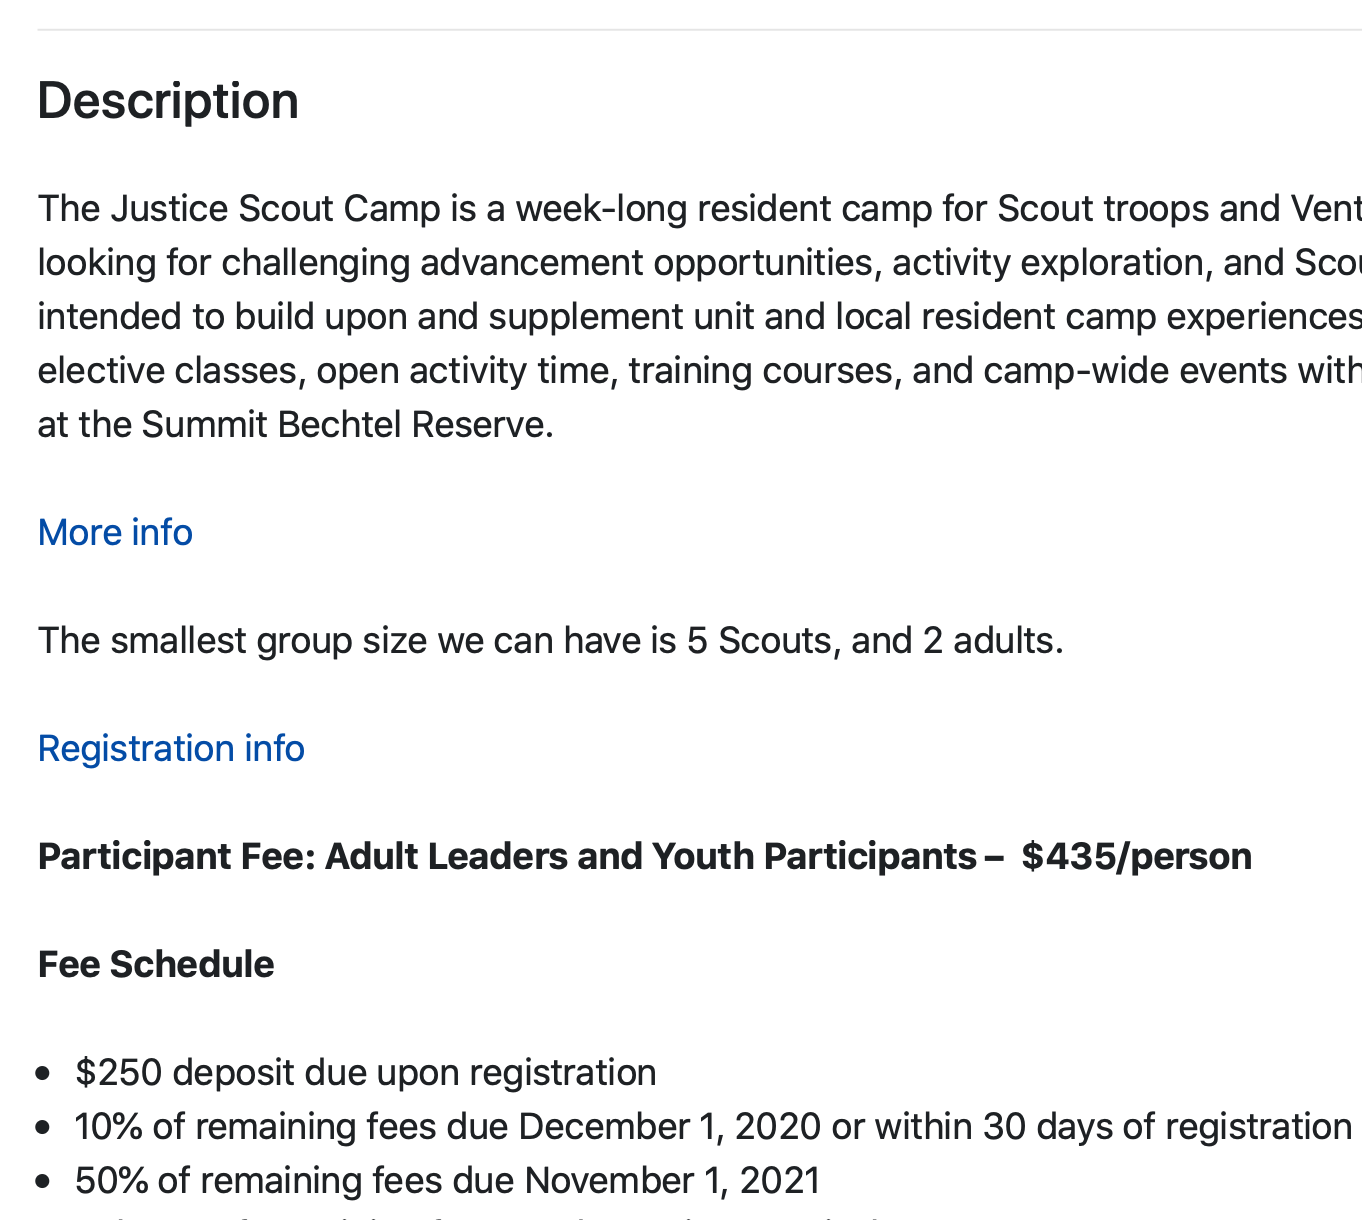
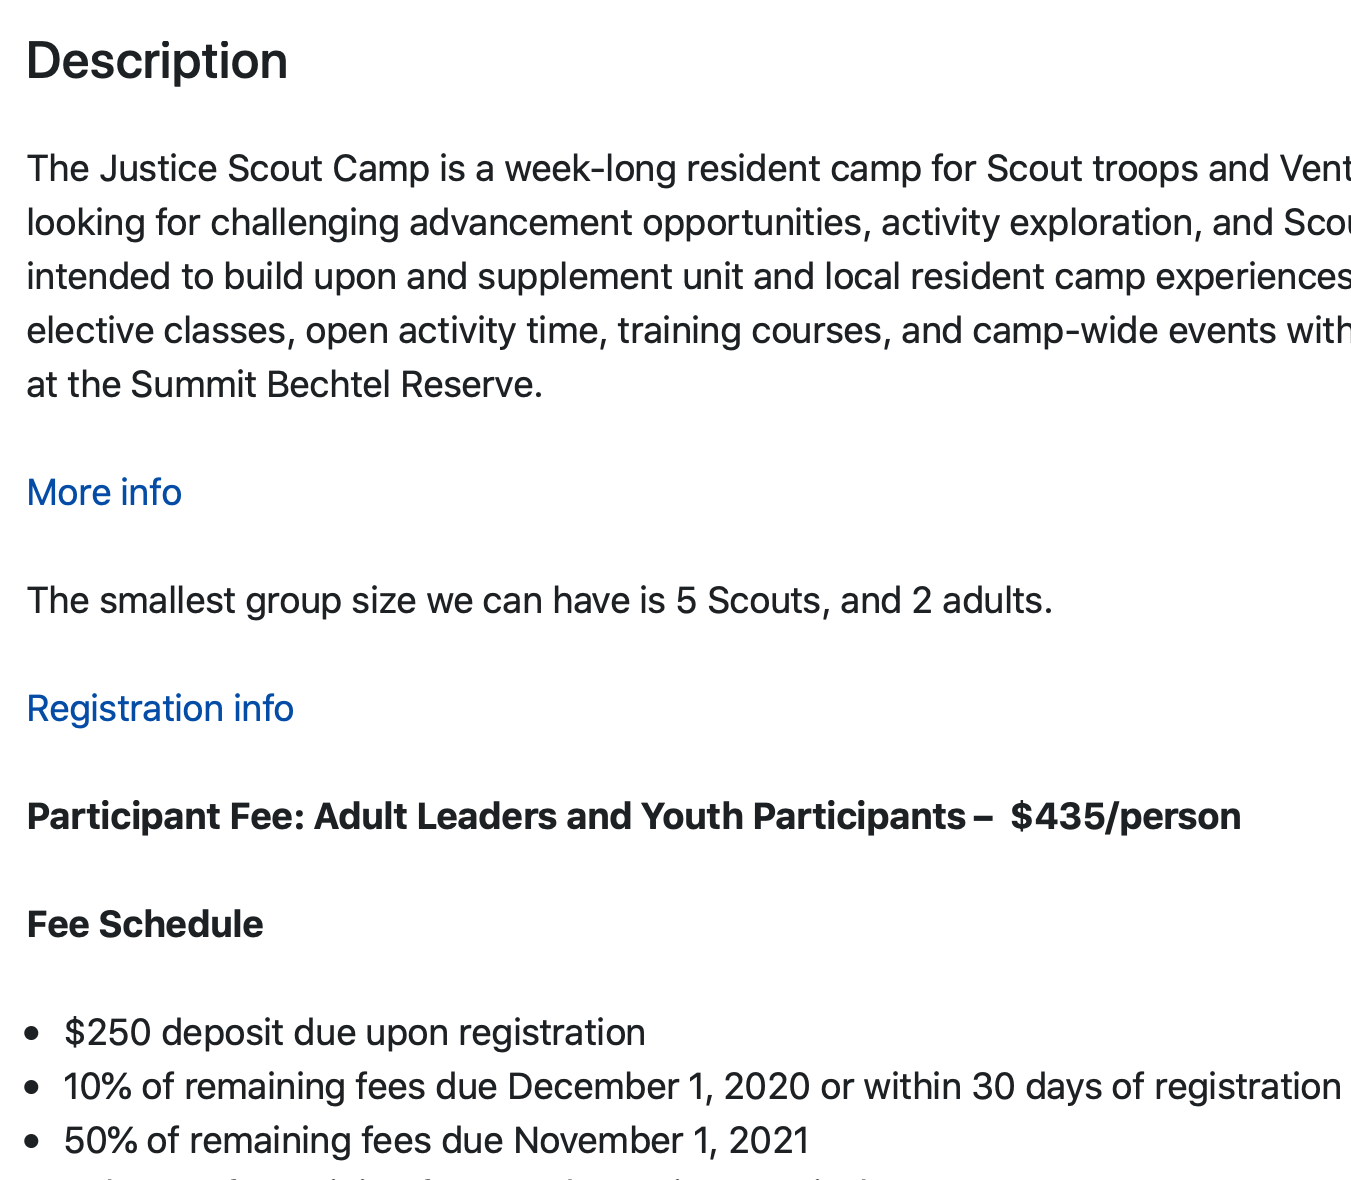
graphical fixes

diff --git a/app/assets/stylesheets/base.scss b/app/assets/stylesheets/base.scss
@@ -12,8 +12,13 @@ a {
   }
 }
 
+h1 {
+  font-size: 2.2em;
+  margin-bottom: 2em;
+}
+
 .container#main {
-  margin-top: 1.7rem;
+  margin-top: 3rem;
 }
 
 table.activities {
@@ -265,7 +270,7 @@ trix-editor {
   margin-top: 1.7rem;
 
   h1 {
-    font-size: 3.2rem;
+    font-size: 3.8rem;
     margin-top: 0.8em;
     font-weight: 300;
     letter-spacing: 0.2px;
